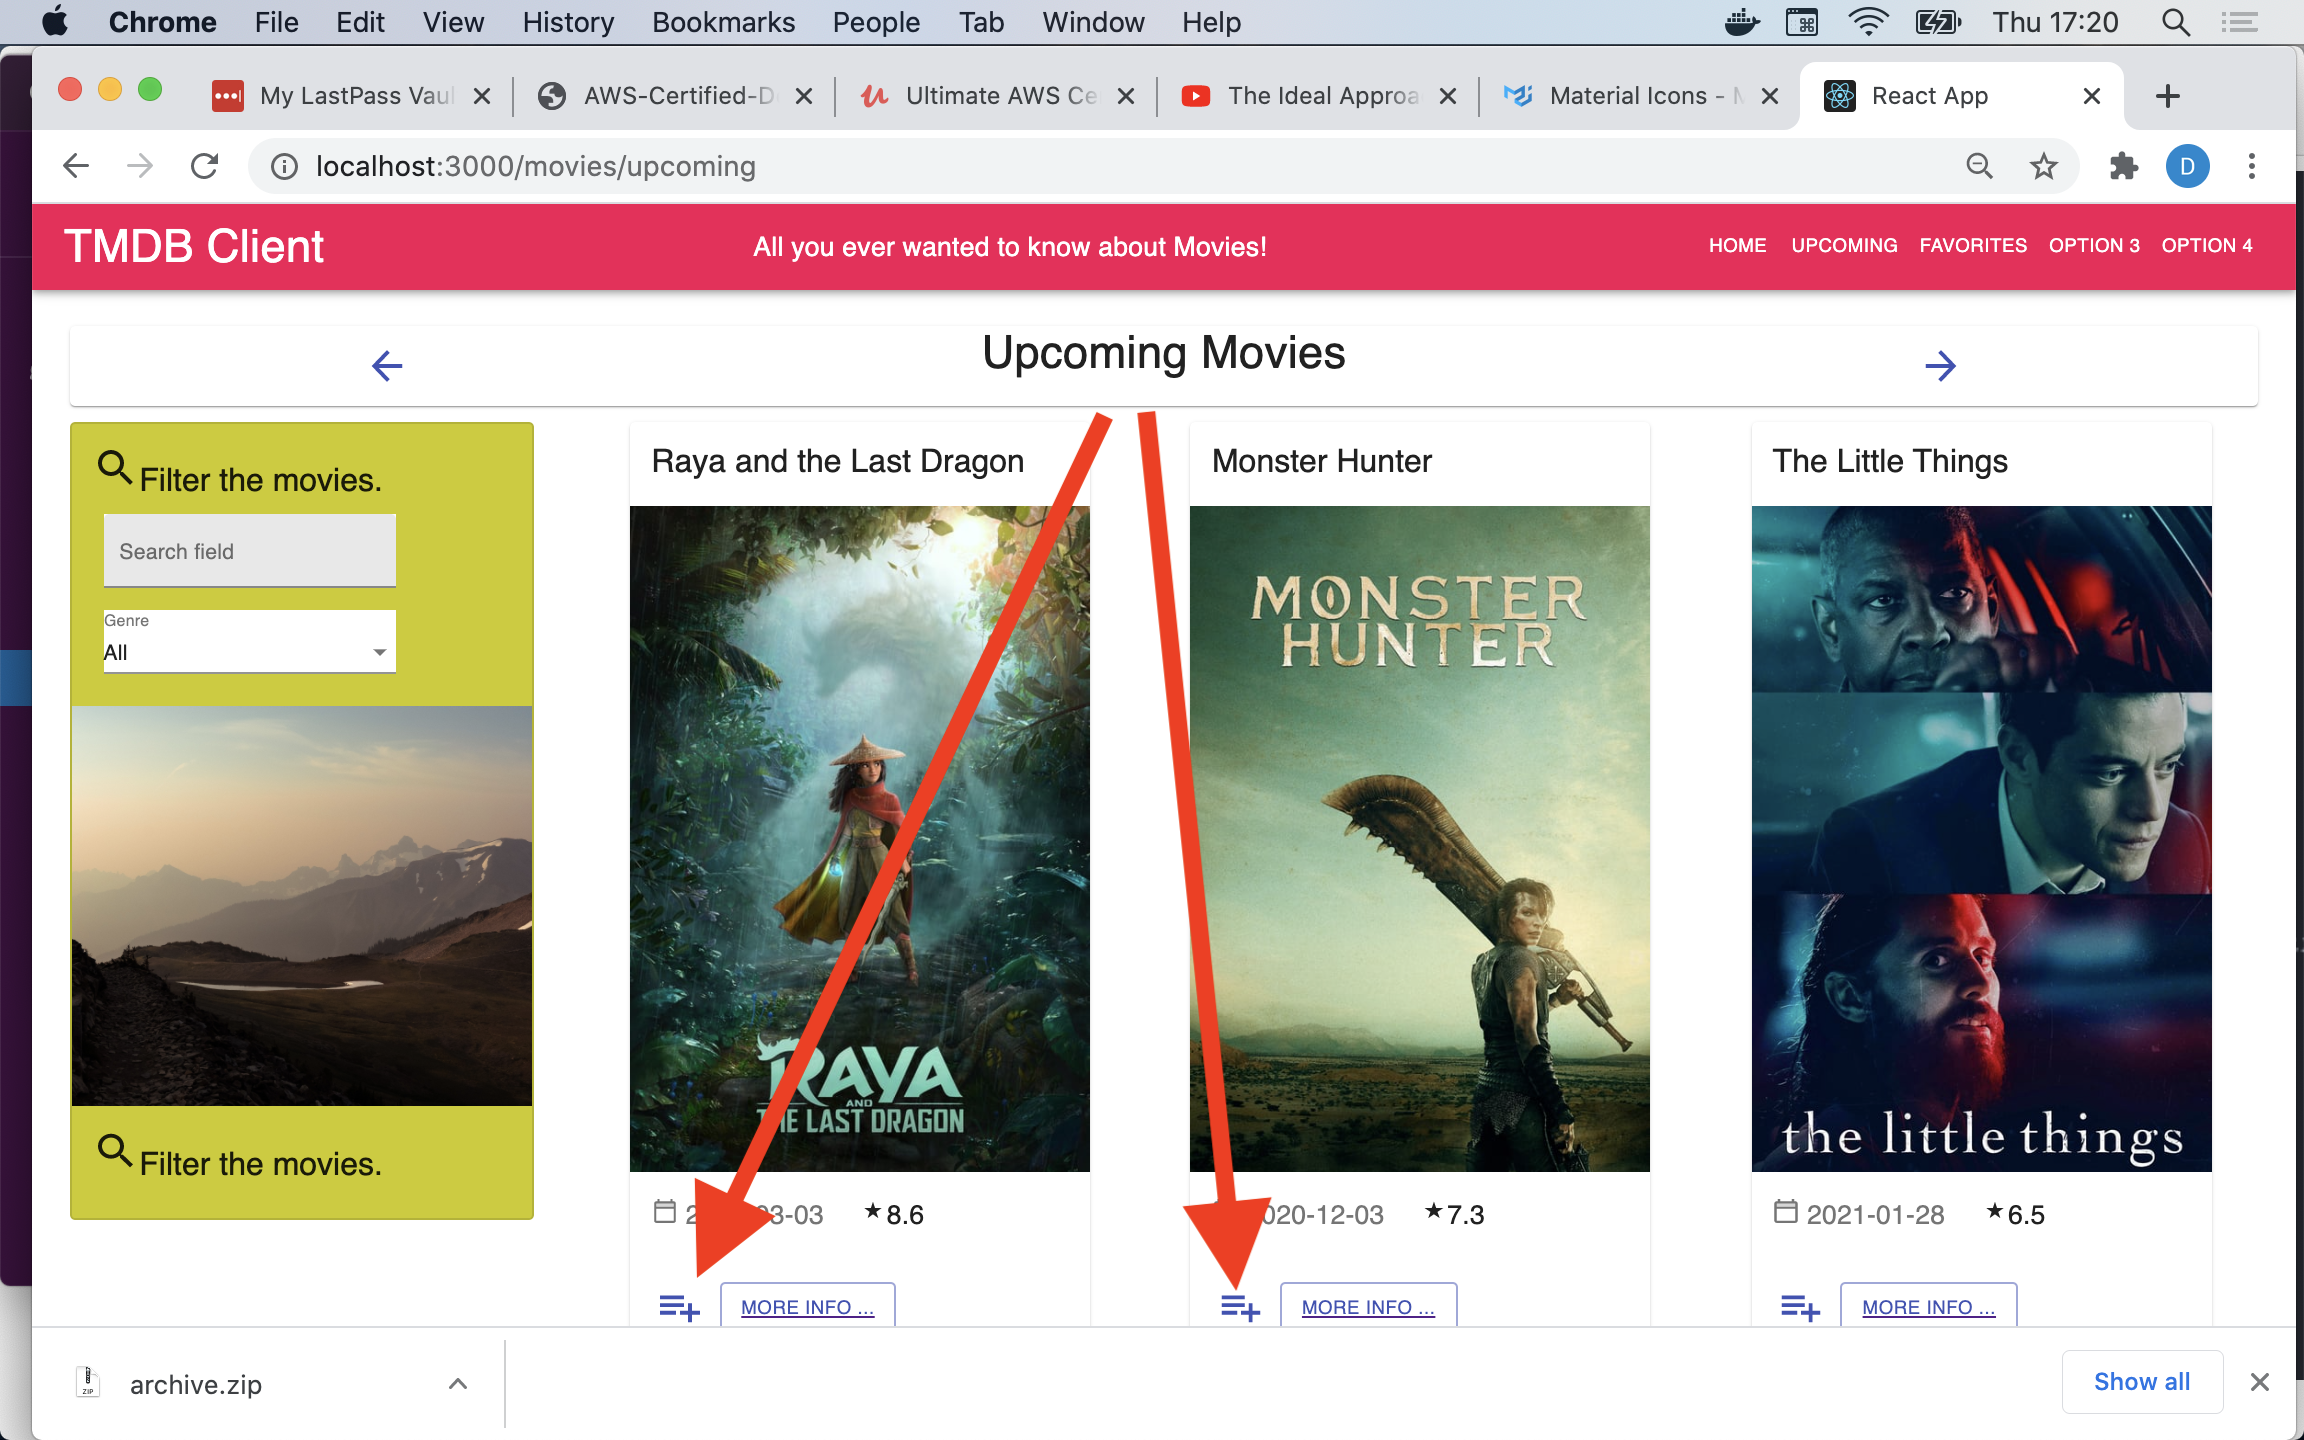
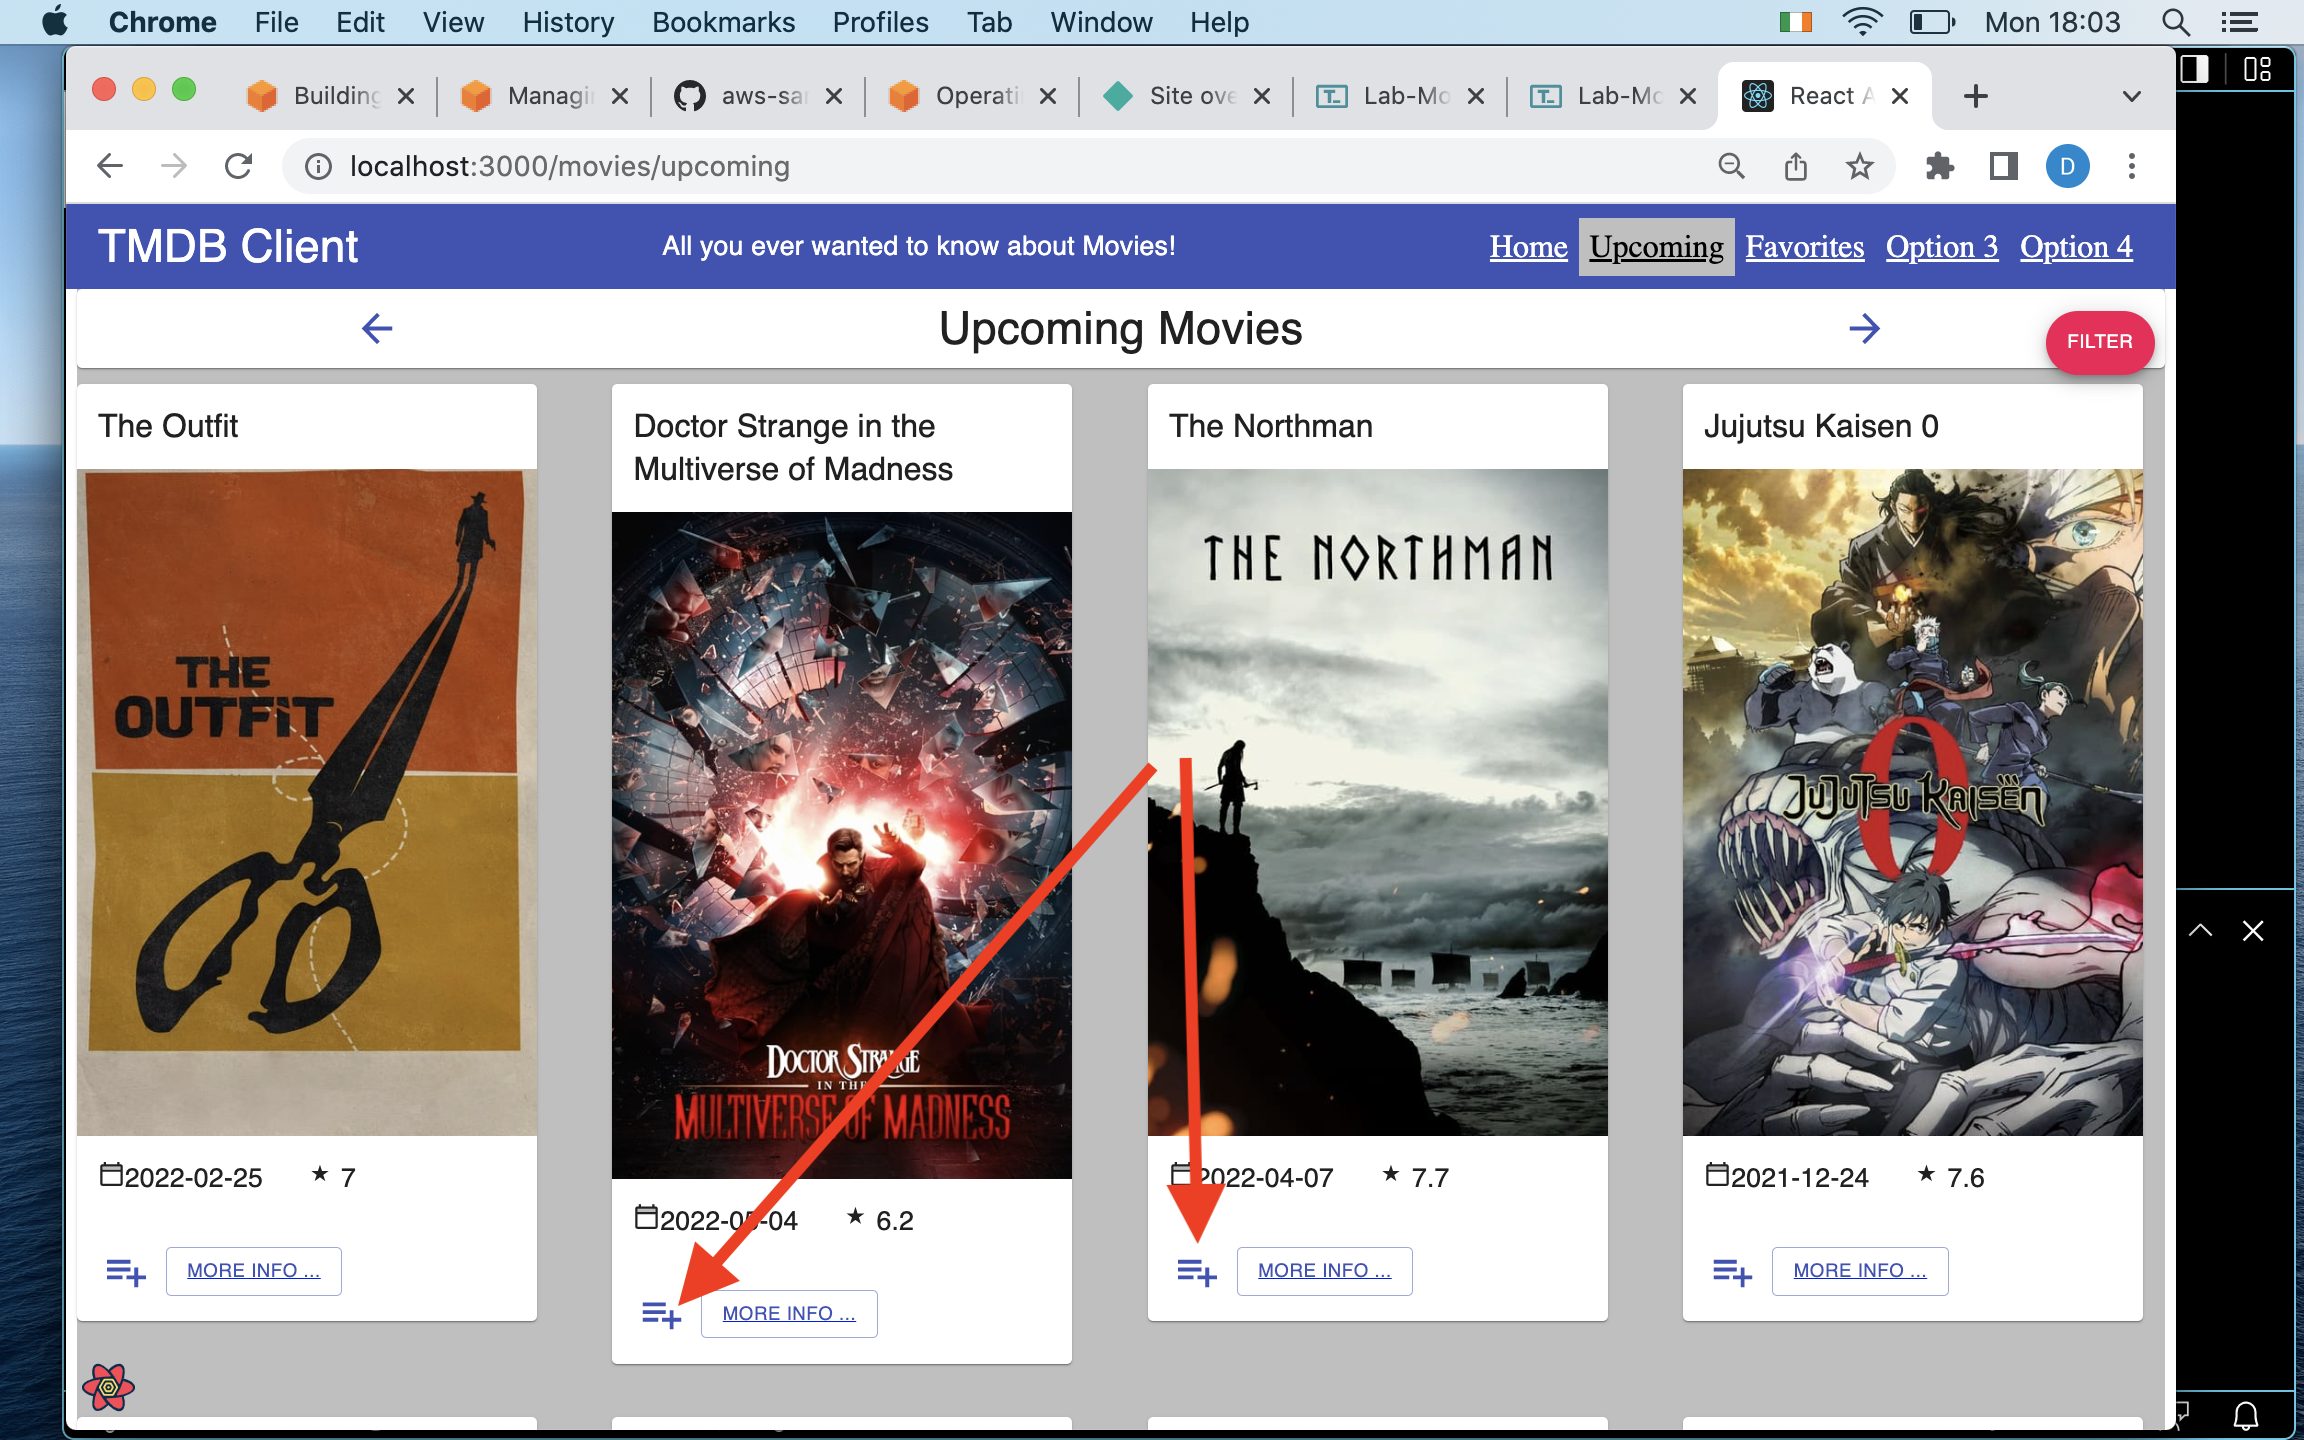
Update part  Exercise section

diff --git a/topic06/book-1/06.Exercise.md b/topic06/book-1/06.Exercise.md
@@ -1,7 +1,10 @@
 # Exercises.
 ## Exercise 1.
 
-The Upcoming movies page you developed in the previous lab no longer works due to the refactoring we carried out. You should make the necessary adjustments to your code to get it working again.
+The Upcoming movies page you developed in the previous lab no longer works due to the refactoring we carried out. You are required to make the necessary adjustments to your code to get it working again. Ignore the use of caching for now, and have a stub for handling the 'add to favourites' user action
+~~~
+  const addToFavourites = () => null;
+~~~
 
 On completion, update your repository:
 ~~~
@@ -11,15 +14,15 @@ $ git push origin main
 ~~~
 ## Exercise 2.
 
-Suppose we want the movies on the Upcoming movies page to have a different action icon(s), as shown:
-
-![][buttonw]
-
-The icon is called PlaylistAdd: 
+Suppose we want the movies on the Upcoming movies page to have a different action icon(s) - the PlaylistAdd icon : 
 
 ![][playlistadd]
 
-Ultimately, it should allow the user to add the movie to their 'to watch' list. For now, you only need this icon to render on the page's movie cards - it does not need to trigger any action.
+On completion, the page should look as follows:
+
+![][buttonw]
+
+Ultimately, clicking the icon should allow the user to add the movie to their 'must watch' list. For now, you only need this icon to render on the page's movie cards - it does not need to trigger any action.
 
 On completion, update your repository:
 ~~~
@@ -41,11 +44,9 @@ $ git push origin main
 
 ## Exercise 4.
 
-Returning to the 'Add to Watch List' icon (from Exercise 2), suppose clicking causes the movie to be added to a 'Must Watch' list, similar to the Favourites list. __You are required__ to implement this requirement.
+We now return to the 'Add to Must Watch List' icon from Exercise 2. Suppose clicking the PlayListAdd icon adds the movie to a 'Must Watch' list, similar to the Favourites list. __You are required__ to implement this requirement.
 
-[Hint: Add a new state variable (of type array) to the MoviesContext for storing the ids of the movies tagged as 'must watch'. Add a function for updating this state variable. Have a click event handle associated with the icon that calls the update function. 
-
-To confirm the feature is working, use console.log to output the content of the new state variable array.]
+[ Hint: You should store the ids of the tagged movies in a new array state variable in the MoviesContext. Include a local function for updating this array. Finally, use a click event handler to call the update function when the user presses a movie's PlayListAdd icon. To confirm the feature is working, use console.log to output the content of the new state variable array.]
 
 On completion, update your repository:
 ~~~
